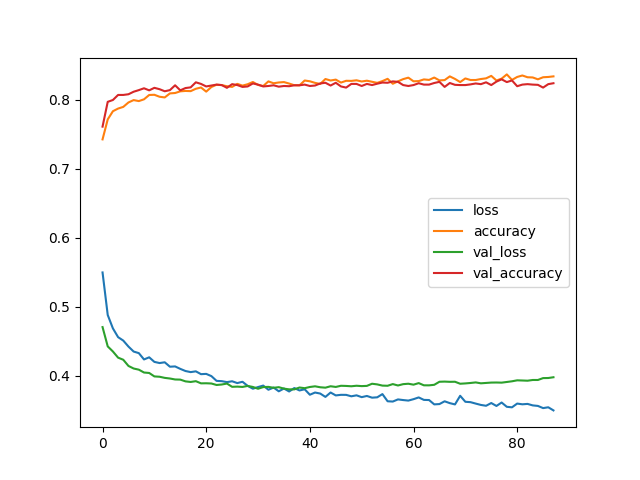
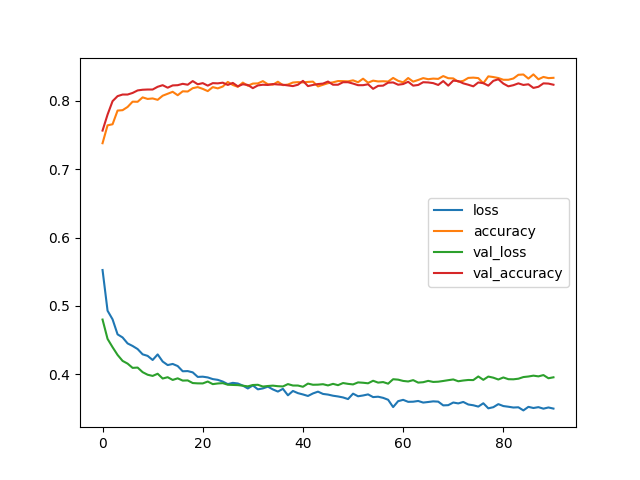
before sleep

diff --git a/Final/models/PCA_1000/pca_1000.py b/Final/models/PCA_1000/pca_1000.py
@@ -61,8 +61,7 @@ for i in list(range(1, 51)):
         y = df_ohe[11].values
         X_train, X_test, y_train, y_test = train_test_split(
             X, y, test_size=0.3, random_state=12)
-        early_stop = EarlyStopping(
-            monitor='val_loss', mode='min', patience=50, verbose=1)
+
         model = Sequential()
         model.add(Dense(units=i, activation='relu'))
         model.add(Dropout(0.5))
@@ -74,11 +73,11 @@ for i in list(range(1, 51)):
         model.compile(loss='binary_crossentropy',
                       optimizer='adam', metrics=['accuracy'])
         model.fit(x=X_train, y=y_train, epochs=1000, validation_data=(
-            X_test, y_test), verbose=1, callbacks=early_stop)
+            X_test, y_test), verbose=0, )
 
         # plot
-        # model_loss = pd.DataFrame(model.history.history)
-        # model_loss.plot().figure.savefig('pca_n'+str(i)+'.png')
+        model_loss = pd.DataFrame(model.history.history)
+        model_loss.plot().figure.savefig('pca_n'+str(i)+'.png')
 
         # metrics
         predictions = model.predict_classes(X_test)
@@ -91,5 +90,5 @@ for i in list(range(1, 51)):
         print("error at n = " + str(i))
 
 results_df = pd.DataFrame(results, columns=['n', 'accuracy_score', 'time'])
-results_df.to_csv('results_2.csv', index=False)
+results_df.to_csv('results_1000_2.csv', index=False)
 # n, accuracy_score, time
